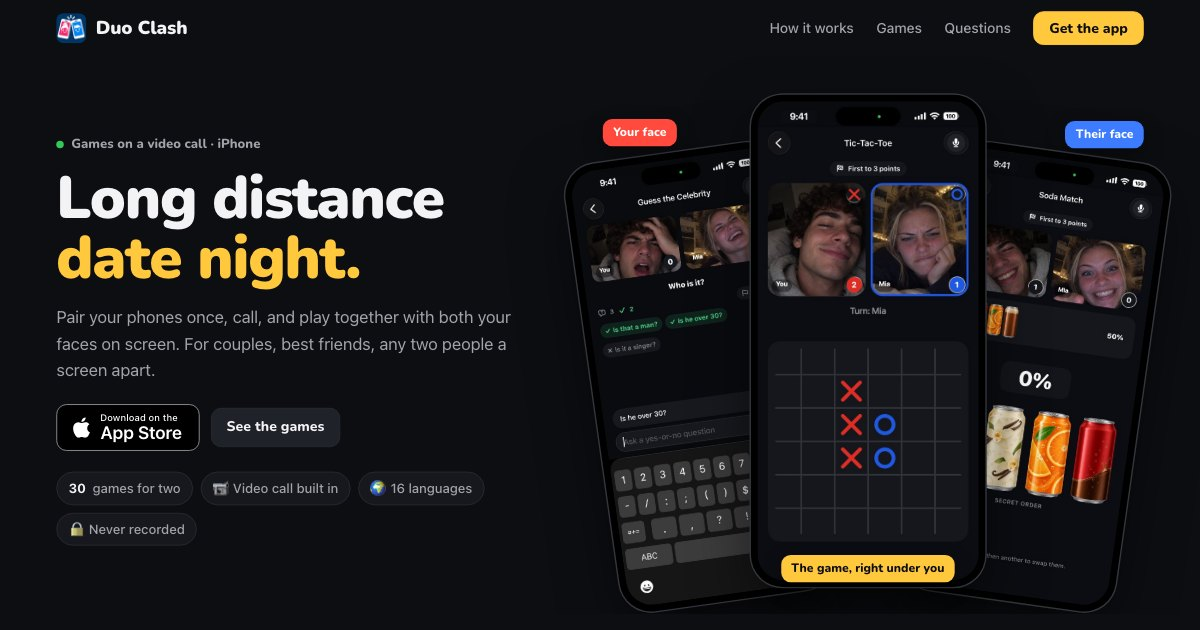
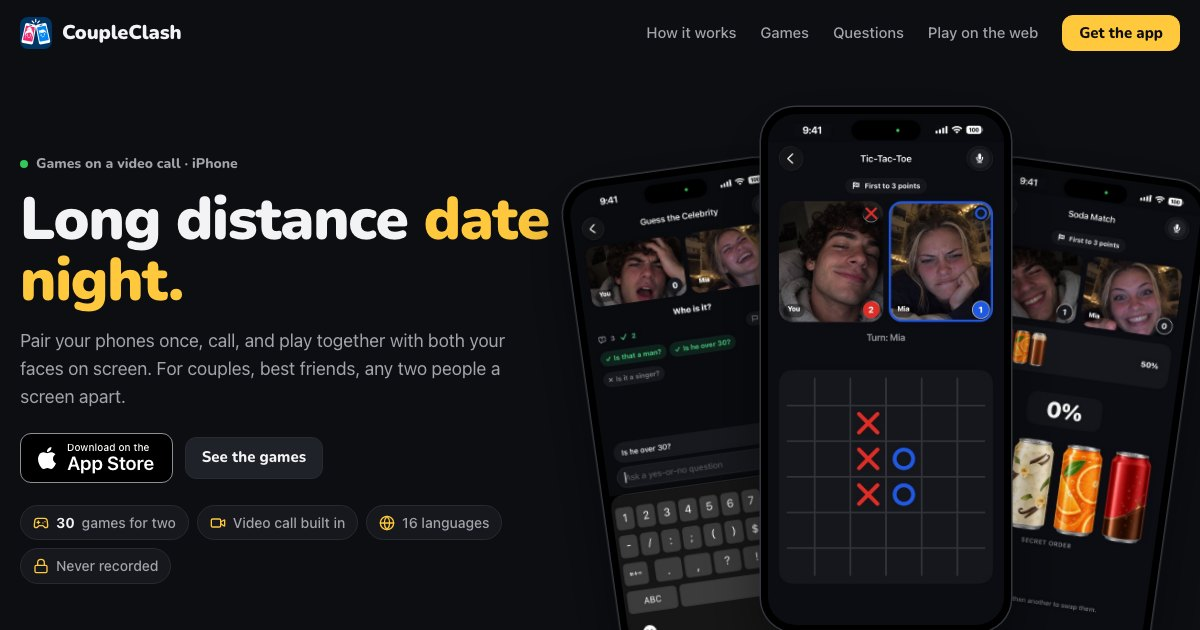
Duo Clash is now CoupleClash: App Review (5.2.5) found Duo too close to Apple's iPhone Duo. Same address; a new share picture

diff --git a/index.html b/index.html
@@ -3,10 +3,10 @@
 <head>
 <meta charset="utf-8">
 <meta name="viewport" content="width=device-width, initial-scale=1">
-<title>Duo Clash: Couples &amp; Besties · Games on a video call</title>
+<title>CoupleClash: Games for Couples · Games on a video call</title>
 <meta name="description" content="Long distance date night. Pair your phones once, start a video call and play word games, chess, four in a row and more with both your faces at the top of every game.">
 <meta name="apple-itunes-app" content="app-id=6820255172">
-<meta property="og:title" content="Duo Clash: Couples &amp; Besties">
+<meta property="og:title" content="CoupleClash: Games for Couples">
 <meta property="og:description" content="Long distance date night: games on a video call for the two of you.">
 <meta property="og:image" content="https://duoclash.app/assets/og.jpg">
 <meta property="og:url" content="https://duoclash.app/">
@@ -18,13 +18,13 @@
 <link rel="preconnect" href="https://fonts.googleapis.com">
 <link rel="preconnect" href="https://fonts.gstatic.com" crossorigin>
 <link href="https://fonts.googleapis.com/css2?family=Nunito:wght@800;900&family=Schibsted+Grotesk:wght@400;500;600;700&display=swap" rel="stylesheet">
-<link rel="stylesheet" href="css/site.css?v=10">
+<link rel="stylesheet" href="css/site.css?v=11">
 </head>
 <body class="intro">
 
 <header class="top">
   <div class="wrap">
-    <a class="brand" href="./"><img src="assets/icon-512.png" alt="">Duo Clash</a>
+    <a class="brand" href="./"><img src="assets/icon-512.png" alt="">CoupleClash</a>
     <nav>
       <a href="#how">How it works</a>
       <a href="#games">Games</a>
@@ -58,9 +58,9 @@
       </div>
       <div class="fan">
         <div class="tilt">
-        <div class="phone"><img src="assets/screens/celebrity.jpg" alt="Guess the Celebrity in Duo Clash, both players on video"></div>
-        <div class="phone"><img src="assets/screens/xox.jpg" alt="Tic-Tac-Toe in Duo Clash, both players on video"></div>
-        <div class="phone"><img src="assets/screens/soda.jpg" alt="Soda Match in Duo Clash, both players on video"></div>
+        <div class="phone"><img src="assets/screens/celebrity.jpg" alt="Guess the Celebrity in CoupleClash, both players on video"></div>
+        <div class="phone"><img src="assets/screens/xox.jpg" alt="Tic-Tac-Toe in CoupleClash, both players on video"></div>
+        <div class="phone"><img src="assets/screens/soda.jpg" alt="Soda Match in CoupleClash, both players on video"></div>
         </div>
       </div>
     </div>
@@ -167,12 +167,12 @@
       <div class="title reveal"><span class="ico b"><svg viewBox="0 0 24 24"><circle cx="12" cy="12" r="10"/><path d="M9.09 9a3 3 0 0 1 5.83 1c0 2-3 3-3 3"/><path d="M12 17h.01"/></svg></span><h2>Questions</h2></div>
       <p class="sub reveal">Anything else? <a href="mailto:support@duoclash.app">support@duoclash.app</a></p>
       <div class="faq reveal">
-        <details><summary>Do we both need the app?</summary><p>Yes. Each of you installs Duo Clash on your own iPhone and has your own subscription. One of you shares a code and you're paired.</p></details>
+        <details><summary>Do we both need the app?</summary><p>Yes. Each of you installs CoupleClash on your own iPhone and has your own subscription. One of you shares a code and you're paired.</p></details>
         <details><summary>What does it cost?</summary><p>A weekly subscription with a lower price for the first week. Your country's price is shown in the app before you subscribe; cancel anytime in your Apple Account settings.</p></details>
         <details><summary>Does it work across countries?</summary><p>Yes, on Wi-Fi or mobile data anywhere. On very strict networks the call goes through a relay, still encrypted, so it still connects.</p></details>
         <details><summary>Which languages can we play in?</summary><p>The app speaks 16 languages. Word games are played in 12 of them; every game without words works in all of them.</p></details>
         <details><summary>Is it only for couples?</summary><p>No. Partners, best friends, siblings: any two people. It just only ever has two seats.</p></details>
-        <details><summary>Is there an Android version?</summary><p>Not yet. Duo Clash is on iPhone for now.</p></details>
+        <details><summary>Is there an Android version?</summary><p>Not yet. CoupleClash is on iPhone for now.</p></details>
         <details><summary>Can I delete my data?</summary><p>Yes. Settings → Delete account removes your name, picture, pairing and match history for good.</p></details>
         <details><summary>Can I suggest a game?</summary><p>Please do. Write to <a href="mailto:support@duoclash.app?subject=Game%20idea%20for%20Duo%20Clash">support@duoclash.app</a>; new games are added all the time.</p></details>
       </div>
@@ -182,7 +182,7 @@
   <section>
     <div class="wrap">
       <div class="last reveal">
-        <div class="who"><img class="icon" src="assets/icon-512.png" alt=""><div><h2>Who wins tonight?</h2><p>Get Duo Clash on both phones and find out.</p></div></div>
+        <div class="who"><img class="icon" src="assets/icon-512.png" alt=""><div><h2>Who wins tonight?</h2><p>Get CoupleClash on both phones and find out.</p></div></div>
         <a class="store" href="https://apps.apple.com/app/id6820255172">
           <svg viewBox="0 0 24 24" aria-hidden="true"><path d="M12.152 6.896c-.948 0-2.415-1.078-3.96-1.04-2.04.027-3.91 1.183-4.961 3.014-2.117 3.675-.546 9.103 1.519 12.09 1.013 1.454 2.208 3.09 3.792 3.039 1.52-.065 2.09-.987 3.935-.987 1.831 0 2.35.987 3.96.948 1.637-.026 2.676-1.48 3.676-2.948 1.156-1.688 1.636-3.325 1.662-3.415-.039-.013-3.182-1.221-3.22-4.857-.026-3.04 2.48-4.494 2.597-4.559-1.429-2.09-3.623-2.324-4.39-2.376-2-.156-3.675 1.09-4.61 1.09zM15.53 3.83c.843-1.012 1.4-2.427 1.245-3.83-1.207.052-2.662.805-3.532 1.818-.78.896-1.454 2.338-1.273 3.714 1.338.104 2.715-.688 3.559-1.701"/></svg>
           <span><small>Download on the</small><b>App Store</b></span>
@@ -194,12 +194,12 @@
 
 <footer>
   <div class="wrap">
-    <span>© 2026 Duo Clash · <a href="mailto:support@duoclash.app">support@duoclash.app</a></span>
+    <span>© 2026 CoupleClash · <a href="mailto:support@duoclash.app">support@duoclash.app</a></span>
     <nav><a href="privacy.html">Privacy Policy</a><a href="terms.html">Terms of Use</a><a href="support.html">Support</a></nav>
   </div>
 </footer>
 
-<script src="js/games.js?v=10"></script>
-<script src="js/site.js?v=10"></script>
+<script src="js/games.js?v=11"></script>
+<script src="js/site.js?v=11"></script>
 </body>
 </html>

diff --git a/play/js/app.js b/play/js/app.js
@@ -1,4 +1,4 @@
-// Duo Clash on the web: the same accounts, couples, rooms and video call as the iPhone app, so a
+// CoupleClash on the web: the same accounts, couples, rooms and video call as the iPhone app, so a
 // couple can play with one on a laptop or an Android phone and the other on an iPhone.
 //   welcome: a name and a face, and the account is made (no email, no password, like the app)
 //   pair:    your code to give, or theirs to type; duoclash.app/play/#pair/123456 pairs straight away
@@ -95,7 +95,7 @@ async function boot() {
 function offline(error) {
   show('welcome', `<section class="center"><div class="card narrow">
     <div class="glyph">${icon('wifiOff')}</div>
-    <h1>Can’t reach Duo Clash</h1>
+    <h1>Can’t reach CoupleClash</h1>
     <p class="dim">${esc(error.message)}</p>
     <button class="primary" data-retry>Try again</button>
   </div></section>`);
@@ -125,7 +125,7 @@ function welcome() {
   show('welcome', `<section class="center"><form class="card narrow" data-welcome>
     <img class="logo" src="../assets/icon-512.png" alt="" width="72" height="72">
     <h1>Play face to face</h1>
-    <p class="dim">Duo Clash in your browser. Pick a name and a face, pair with your person, and play on a video call. They can be on a laptop, an Android phone or the iPhone app.</p>
+    <p class="dim">CoupleClash in your browser. Pick a name and a face, pair with your person, and play on a video call. They can be on a laptop, an Android phone or the iPhone app.</p>
     <label class="field"><span>Your name</span><input name="name" maxlength="20" autocomplete="nickname" placeholder="Leo" required></label>
     <div class="field"><span>Your face</span><div class="avatars">${Array.from({ length: AVATARS }, (_, i) => `
       <button type="button" class="avatar ${i === avatar ? 'on' : ''}" data-avatar="${i}" aria-label="Face ${i + 1}">${avatarSVG(i)}</button>`).join('')}
@@ -190,7 +190,7 @@ async function pair() {
       <p class="eyebrow">${icon('link')} Your code</p>
       <h1>Send this to your person</h1>
       <div class="code" aria-label="Your code ${code}">${[...code].map((d) => `<span>${d}</span>`).join('')}</div>
-      <p class="dim">They type it in Duo Clash on their iPhone, or open your link in any browser.</p>
+      <p class="dim">They type it in CoupleClash on their iPhone, or open your link in any browser.</p>
       <div class="row">
         <button class="primary" data-copy>${icon('copy')} Copy link</button>
         ${navigator.share ? `<button class="ghost" data-share>Share</button>` : ''}
@@ -212,7 +212,7 @@ async function pair() {
       toast(link);
     }
   };
-  $('[data-share]')?.addEventListener('click', () => navigator.share({ title: 'Duo Clash', text: `Pair with me on Duo Clash: ${code}`, url: link }).catch(() => {}));
+  $('[data-share]')?.addEventListener('click', () => navigator.share({ title: 'CoupleClash', text: `Pair with me on CoupleClash: ${code}`, url: link }).catch(() => {}));
   const form = $('[data-join]');
   form.code.addEventListener('input', () => (form.code.value = form.code.value.replace(/\D/g, '').slice(0, 6)));
   form.addEventListener('submit', async (event) => {
@@ -288,7 +288,7 @@ async function refreshCouple() {
     const fresh = (group.rooms ?? []).find((room) => !known.has(room.id) && room.host !== state.me.id && room.phase === 'lobby');
     if (fresh) {
       toast(`${partner()?.name} opened ${gameTitle(fresh.game)}. Join them.`);
-      document.title = `${partner()?.name} opened ${gameTitle(fresh.game)} · Duo Clash`;
+      document.title = `${partner()?.name} opened ${gameTitle(fresh.game)} · CoupleClash`;
     }
     if (app.dataset.view === 'home') renderCouple();
   } catch (error) {
@@ -607,5 +607,5 @@ $('#more').onclick = () => {
 };
 menu.addEventListener('click', (event) => event.target === menu && menu.close());
 
-addEventListener('focus', () => (document.title = 'Duo Clash · Play'));
+addEventListener('focus', () => (document.title = 'CoupleClash · Play'));
 boot();

diff --git a/privacy.html b/privacy.html
@@ -3,19 +3,19 @@
 <head>
 <meta charset="utf-8">
 <meta name="viewport" content="width=device-width, initial-scale=1">
-<title>Privacy Policy · Duo Clash</title>
+<title>Privacy Policy · CoupleClash</title>
 <meta name="theme-color" content="#0e0f12">
 <link rel="icon" href="assets/favicon.png">
 <link rel="apple-touch-icon" href="assets/apple-touch-icon.png">
 <link rel="preconnect" href="https://fonts.googleapis.com">
 <link rel="preconnect" href="https://fonts.gstatic.com" crossorigin>
 <link href="https://fonts.googleapis.com/css2?family=Nunito:wght@800;900&family=Schibsted+Grotesk:wght@400;500;600;700&display=swap" rel="stylesheet">
-<link rel="stylesheet" href="css/site.css?v=10">
+<link rel="stylesheet" href="css/site.css?v=11">
 </head>
 <body>
 <header class="top scrolled">
   <div class="wrap">
-    <a class="brand" href="./" aria-label="Duo Clash home"><img src="assets/icon-512.png" alt=""><span>Duo Clash</span></a>
+    <a class="brand" href="./" aria-label="CoupleClash home"><img src="assets/icon-512.png" alt=""><span>CoupleClash</span></a>
     <nav>
       <a href="./#games">Games</a>
       <a href="support.html">Support</a>
@@ -25,9 +25,9 @@
 </header>
 <main class="doc">
   <h1>Privacy Policy</h1>
-  <p class="when">Duo Clash · last updated 8 October 2026</p>
+  <p class="when">CoupleClash · last updated 8 October 2026</p>
 
-  <p>Duo Clash is an app where two people, a couple or best friends, pair their phones and play games
+  <p>CoupleClash is an app where two people, a couple or best friends, pair their phones and play games
   together on a video call. This page says exactly what happens to your information, in plain
   language. There is no advertising, no tracking, and nothing is sold to anybody.</p>
 
@@ -69,7 +69,7 @@
   <h2>Subscriptions</h2>
   <p>Payment is handled entirely by Apple. We never see your card or your Apple Account. To keep
   track of whether your subscription is active, the app uses <strong>RevenueCat</strong>: it
-  receives your purchase history from Apple together with your Duo Clash account's random ID, and
+  receives your purchase history from Apple together with your CoupleClash account's random ID, and
   nothing else about you, not your name or your picture.</p>
 
   <h2>Reports and blocking</h2>
@@ -98,7 +98,7 @@
   </ul>
 
   <h2>Children</h2>
-  <p>Duo Clash is not meant for children under 13, and we do not knowingly collect information
+  <p>CoupleClash is not meant for children under 13, and we do not knowingly collect information
   from them.</p>
 
   <h2>Your rights</h2>
@@ -112,11 +112,11 @@
   <p><a href="mailto:support@duoclash.app">support@duoclash.app</a></p>
 
   <hr>
-  <p class="note">Duo Clash is made by an independent developer.</p>
+  <p class="note">CoupleClash is made by an independent developer.</p>
 </main>
 <footer>
   <div class="wrap">
-    <span>© 2026 Duo Clash · <a href="mailto:support@duoclash.app">support@duoclash.app</a></span>
+    <span>© 2026 CoupleClash · <a href="mailto:support@duoclash.app">support@duoclash.app</a></span>
     <nav><a href="privacy.html">Privacy Policy</a><a href="terms.html">Terms of Use</a><a href="support.html">Support</a></nav>
   </div>
 </footer>

diff --git a/support.html b/support.html
@@ -3,19 +3,19 @@
 <head>
 <meta charset="utf-8">
 <meta name="viewport" content="width=device-width, initial-scale=1">
-<title>Support · Duo Clash</title>
+<title>Support · CoupleClash</title>
 <meta name="theme-color" content="#0e0f12">
 <link rel="icon" href="assets/favicon.png">
 <link rel="apple-touch-icon" href="assets/apple-touch-icon.png">
 <link rel="preconnect" href="https://fonts.googleapis.com">
 <link rel="preconnect" href="https://fonts.gstatic.com" crossorigin>
 <link href="https://fonts.googleapis.com/css2?family=Nunito:wght@800;900&family=Schibsted+Grotesk:wght@400;500;600;700&display=swap" rel="stylesheet">
-<link rel="stylesheet" href="css/site.css?v=10">
+<link rel="stylesheet" href="css/site.css?v=11">
 </head>
 <body>
 <header class="top scrolled">
   <div class="wrap">
-    <a class="brand" href="./" aria-label="Duo Clash home"><img src="assets/icon-512.png" alt=""><span>Duo Clash</span></a>
+    <a class="brand" href="./" aria-label="CoupleClash home"><img src="assets/icon-512.png" alt=""><span>CoupleClash</span></a>
     <nav>
       <a href="./#games">Games</a>
       <a href="support.html">Support</a>
@@ -25,7 +25,7 @@
 </header>
 <main class="doc">
   <h1>Support</h1>
-  <p class="when">Duo Clash</p>
+  <p class="when">CoupleClash</p>
   <p>Questions, bugs, ideas — write to us and we'll get back to you.</p>
   <a class="mail" href="mailto:support@duoclash.app?subject=Duo%20Clash%20support">support@duoclash.app</a>
 
@@ -34,7 +34,7 @@
   the app and your own subscription.</p>
 
   <h2>The video call won't connect</h2>
-  <p>Check that Duo Clash may use the camera and microphone (iPhone Settings → Duo Clash), then try
+  <p>Check that CoupleClash may use the camera and microphone (iPhone Settings → CoupleClash), then try
   again. Calls work on Wi-Fi and mobile data; on very strict networks they may take a moment longer.</p>
 
   <h2>Restore a subscription</h2>
@@ -42,7 +42,7 @@
 
   <h2>Cancel or change your plan</h2>
   <p>In the app: Settings → Manage subscription. Or on your iPhone: Settings → your name →
-  Subscriptions → Duo Clash. Cancel at least 24 hours before the period ends to avoid the next
+  Subscriptions → CoupleClash. Cancel at least 24 hours before the period ends to avoid the next
   charge. Deleting the app does not cancel the subscription.</p>
 
   <h2>Report someone</h2>
@@ -58,7 +58,7 @@
 </main>
 <footer>
   <div class="wrap">
-    <span>© 2026 Duo Clash · <a href="mailto:support@duoclash.app">support@duoclash.app</a></span>
+    <span>© 2026 CoupleClash · <a href="mailto:support@duoclash.app">support@duoclash.app</a></span>
     <nav><a href="privacy.html">Privacy Policy</a><a href="terms.html">Terms of Use</a><a href="support.html">Support</a></nav>
   </div>
 </footer>

diff --git a/terms.html b/terms.html
@@ -3,19 +3,19 @@
 <head>
 <meta charset="utf-8">
 <meta name="viewport" content="width=device-width, initial-scale=1">
-<title>Terms of Use · Duo Clash</title>
+<title>Terms of Use · CoupleClash</title>
 <meta name="theme-color" content="#0e0f12">
 <link rel="icon" href="assets/favicon.png">
 <link rel="apple-touch-icon" href="assets/apple-touch-icon.png">
 <link rel="preconnect" href="https://fonts.googleapis.com">
 <link rel="preconnect" href="https://fonts.gstatic.com" crossorigin>
 <link href="https://fonts.googleapis.com/css2?family=Nunito:wght@800;900&family=Schibsted+Grotesk:wght@400;500;600;700&display=swap" rel="stylesheet">
-<link rel="stylesheet" href="css/site.css?v=10">
+<link rel="stylesheet" href="css/site.css?v=11">
 </head>
 <body>
 <header class="top scrolled">
   <div class="wrap">
-    <a class="brand" href="./" aria-label="Duo Clash home"><img src="assets/icon-512.png" alt=""><span>Duo Clash</span></a>
+    <a class="brand" href="./" aria-label="CoupleClash home"><img src="assets/icon-512.png" alt=""><span>CoupleClash</span></a>
     <nav>
       <a href="./#games">Games</a>
       <a href="support.html">Support</a>
@@ -25,9 +25,9 @@
 </header>
 <main class="doc">
   <h1>Terms of Use</h1>
-  <p class="when">Duo Clash · last updated 8 October 2026</p>
+  <p class="when">CoupleClash · last updated 8 October 2026</p>
 
-  <p>By using Duo Clash you agree to what is below. If you do not, please do not use the app.</p>
+  <p>By using CoupleClash you agree to what is below. If you do not, please do not use the app.</p>
 
   <h2>Who can use it</h2>
   <p>You must be at least 13, or older if the law where you live says so. Pair only with someone you
@@ -54,7 +54,7 @@
   </ul>
 
   <h2>Zero tolerance for abuse</h2>
-  <p>Duo Clash has no tolerance for objectionable content or abusive users. Do not use your name,
+  <p>CoupleClash has no tolerance for objectionable content or abusive users. Do not use your name,
   picture, words, stakes, voice or video to harass, threaten, or hurt anyone, to show sexual or
   violent content, to spread hate, or to break the law. You can report or block someone at any time
   from the app; we review reports within 24 hours and remove content or close accounts that break
@@ -85,7 +85,7 @@
 </main>
 <footer>
   <div class="wrap">
-    <span>© 2026 Duo Clash · <a href="mailto:support@duoclash.app">support@duoclash.app</a></span>
+    <span>© 2026 CoupleClash · <a href="mailto:support@duoclash.app">support@duoclash.app</a></span>
     <nav><a href="privacy.html">Privacy Policy</a><a href="terms.html">Terms of Use</a><a href="support.html">Support</a></nav>
   </div>
 </footer>

diff --git a/play/index.html b/play/index.html
@@ -3,9 +3,9 @@
 <head>
 <meta charset="utf-8">
 <meta name="viewport" content="width=device-width, initial-scale=1, viewport-fit=cover">
-<title>Duo Clash · Play</title>
-<meta name="description" content="Play Duo Clash in your browser: pair with your person and play on a video call, from a laptop, an Android phone or with someone on the iPhone app.">
-<meta property="og:title" content="Play Duo Clash in your browser">
+<title>CoupleClash · Play</title>
+<meta name="description" content="Play CoupleClash in your browser: pair with your person and play on a video call, from a laptop, an Android phone or with someone on the iPhone app.">
+<meta property="og:title" content="Play CoupleClash in your browser">
 <meta property="og:description" content="Games on a video call for the two of you. Laptop, Android or iPhone.">
 <meta property="og:image" content="https://duoclash.app/assets/og.jpg">
 <meta property="og:url" content="https://duoclash.app/play/">
@@ -16,12 +16,12 @@
 <link rel="preconnect" href="https://fonts.googleapis.com">
 <link rel="preconnect" href="https://fonts.gstatic.com" crossorigin>
 <link href="https://fonts.googleapis.com/css2?family=Nunito:wght@800;900&family=Schibsted+Grotesk:wght@400;500;600;700&display=swap" rel="stylesheet">
-<link rel="stylesheet" href="play.css?v=1">
+<link rel="stylesheet" href="play.css?v=2">
 </head>
 <body>
 <div class="app" data-view="loading">
   <header class="bar">
-    <a class="brand" href="../"><img src="../assets/icon-512.png" alt="">Duo Clash</a>
+    <a class="brand" href="../"><img src="../assets/icon-512.png" alt="">CoupleClash</a>
     <span class="tag">Web</span>
     <span class="grow"></span>
     <span class="me-chip" id="who"></span>
@@ -58,7 +58,7 @@
 </div>
 <dialog id="menu"></dialog>
 <div id="toast" class="toast" role="status" aria-live="polite"></div>
-<script src="../js/games.js?v=10"></script>
-<script type="module" src="js/app.js?v=1"></script>
+<script src="../js/games.js?v=11"></script>
+<script type="module" src="js/app.js?v=2"></script>
 </body>
 </html>

diff --git a/play/js/api.js b/play/js/api.js
@@ -44,7 +44,7 @@ export async function call(method, path, body) {
   try {
     response = await fetch(`${BASE}/${path}`, { method, headers, body: body === undefined ? undefined : JSON.stringify(body) });
   } catch {
-    throw new Failure('Can’t reach Duo Clash. Check your connection.', 'offline', 0);
+    throw new Failure('Can’t reach CoupleClash. Check your connection.', 'offline', 0);
   }
   const data = await response.json().catch(() => ({}));
   if (!response.ok) throw new Failure(data.error || 'Something went wrong. Try again.', data.code, response.status);

diff --git a/play/play.css b/play/play.css
@@ -1,4 +1,4 @@
-/* Duo Clash on the web: the app's own look (its near-black, the red and blue of X and O, the yellow
+/* CoupleClash on the web: the app's own look (its near-black, the red and blue of X and O, the yellow
    of its buttons, SF Rounded). On a laptop the two cameras stand beside the board; on a phone they
    sit above it, side by side, as in the app. */
 

diff --git a/css/site.css b/css/site.css
@@ -1,4 +1,4 @@
-/* Duo Clash — duoclash.app
+/* CoupleClash — duoclash.app
    The app's own look: its near-black, the red and blue of X and O, the yellow of its buttons, and
    SF Rounded (Nunito where there's no SF). Real screens from the app, not drawings of them. Dense
    enough to take in at a glance. */

diff --git a/js/games.js b/js/games.js
@@ -1,4 +1,4 @@
-// Every game in Duo Clash, from the app (Multimobile/UI/Games.swift). Art in assets/games.
+// Every game in CoupleClash, from the app (Multimobile/UI/Games.swift). Art in assets/games.
 window.GAMES = [
  {
   "id": "letterLink",
